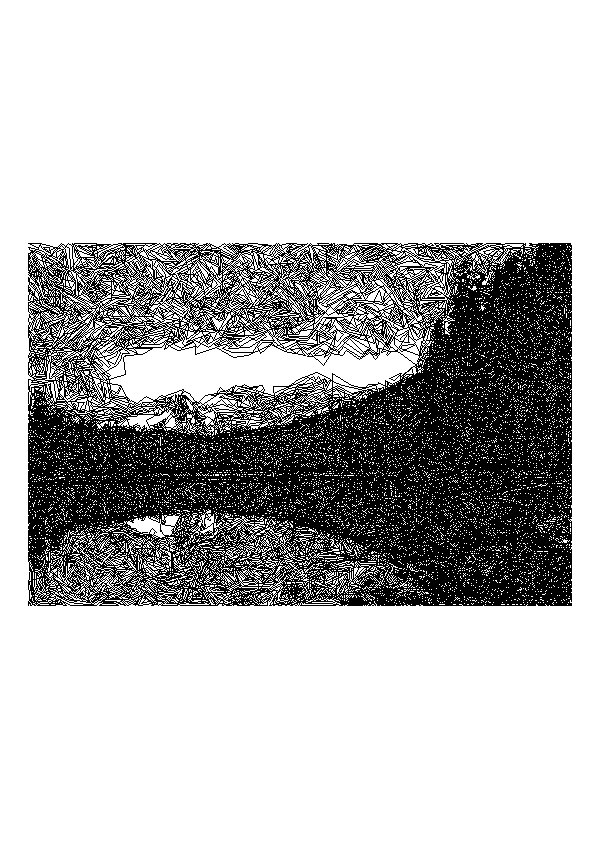
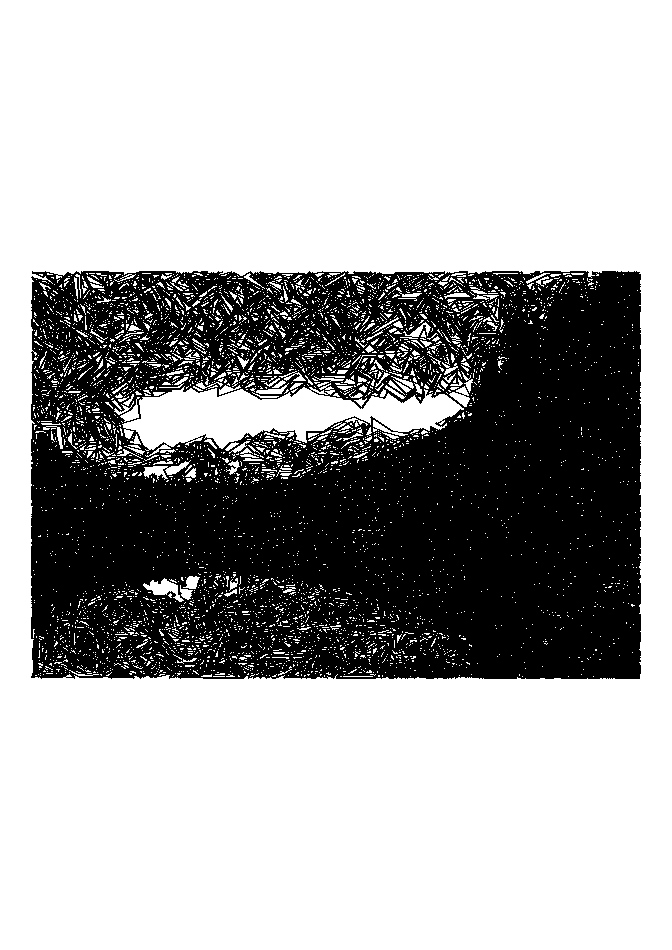
fixup! docs(readme): add reproducible Examples gallery (LUC-88)
fixup! docs(readme): add reproducible Examples gallery (LUC-88)

Changed region(s): [[0.03, 0.2756, 0.9584, 0.735]]

diff --git a/README.md b/README.md
@@ -386,9 +386,10 @@ the plot is `penpath preview` of the SVG and the G-code view is `penpath preview
 of the output of `penpath gcode --profile generic`. The G-code preview draws a
 thin bed/page outline around the same ink. All examples use A4 paper, the
 default 0.3 mm black `fine` pen, `-s seed=42` and a smaller working resolution
-(`--max-resolution 800`) to keep the run short; each preview is 601×849 px
-(`--dpi 2.86`) and well under 200 KB. Run the script from a checkout with
-`penpath` on your PATH to regenerate the whole gallery.
+(`--max-resolution 800`) to keep the run short; previews are 601×849 px
+(`--dpi 2.86`) except the three pen-width plots, which use `--dpi 3.2` (672×950
+px) so the stroke widths stay distinguishable, all well under 200 KB. Run the
+script from a checkout with `penpath` on your PATH to regenerate the whole gallery.
 
 ### Worked Example: Photo → SVG → Preview
 
@@ -498,8 +499,9 @@ penpath preview build/gallery/spiral_sawtooth.gcode -o docs/images/luc-88/spiral
 
 On the free [lake photo](tests/fixtures/images/reference/photo.jpg), only the
 pen changes between the first three plots: `fine` is 0.3 mm, `medium` 0.5 mm and
-`bold` 0.8 mm. A wider pen also lowers the working resolution, so the bold plot
-trades fine texture for broad, nearly solid dark areas.
+`bold` 0.8 mm. The same strokes are drawn with broader marks as the pen widens,
+so the hillside and water fill in and the bold plot is nearly solid. These three
+previews use `--dpi 3.2` (672×950 px) so the different stroke widths stay visible.
 
 | `fine` (0.3 mm) | `medium` (0.5 mm) | `bold` (0.8 mm) |
 |:---------------:|:-----------------:|:---------------:|
@@ -515,11 +517,11 @@ the page and the same solid areas the pen will lay down:
 
 ```bash
 penpath convert tests/fixtures/images/reference/photo.jpg -o build/gallery/pen_fine.svg --paper a4 --max-resolution 800 -s seed=42 -q --pen fine
-penpath preview build/gallery/pen_fine.svg -o docs/images/luc-88/pen_fine_plot.png --dpi 2.86
+penpath preview build/gallery/pen_fine.svg -o docs/images/luc-88/pen_fine_plot.png --dpi 3.2
 penpath convert tests/fixtures/images/reference/photo.jpg -o build/gallery/pen_medium.svg --paper a4 --max-resolution 800 -s seed=42 -q --pen medium
-penpath preview build/gallery/pen_medium.svg -o docs/images/luc-88/pen_medium_plot.png --dpi 2.86
+penpath preview build/gallery/pen_medium.svg -o docs/images/luc-88/pen_medium_plot.png --dpi 3.2
 penpath convert tests/fixtures/images/reference/photo.jpg -o build/gallery/pen_bold.svg --paper a4 --max-resolution 800 -s seed=42 -q --pen bold
-penpath preview build/gallery/pen_bold.svg -o docs/images/luc-88/pen_bold_plot.png --dpi 2.86
+penpath preview build/gallery/pen_bold.svg -o docs/images/luc-88/pen_bold_plot.png --dpi 3.2
 penpath gcode build/gallery/pen_bold.svg --profile generic -o build/gallery/pen_bold.gcode
 penpath preview build/gallery/pen_bold.gcode -o docs/images/luc-88/pen_bold_gcode.png --dpi 2.86
 ```
